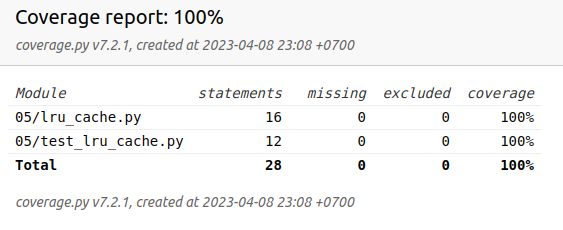
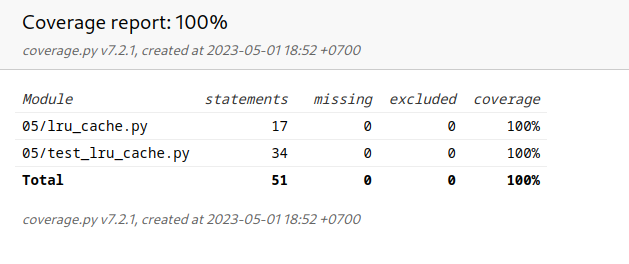
Change set method for cache and add tests

diff --git a/05/test_lru_cache.py b/05/test_lru_cache.py
@@ -16,3 +16,37 @@ def test_lru_cache():
     assert cache.get("k3") == "val3"
     assert cache.get("k2") is None
     assert cache.get("k1") == "val1"
+
+
+def test_lru_cache_limit_1():
+    cache = LRUCache(1)
+
+    cache.set(1, "val1")
+    cache.set(2, "val2")
+
+    assert cache.get(3) is None
+    assert cache.get(2) == "val2"
+    assert cache.get(1) is None
+
+    cache.set(3, "val3")
+
+    assert cache.get(3) == "val3"
+    assert cache.get(2) is None
+    assert cache.get(1) is None
+
+
+def test_lru_cache_change_exists_key():
+    cache = LRUCache(3)
+
+    cache.set("k1", "val1")
+    cache.set("k2", "val2")
+    cache.set("k3", "val3")
+
+    cache.set("k2", "val2_new")
+
+    cache.set(4, "new")
+
+    assert cache.get("k1") is None
+    assert cache.get("k2") == "val2_new"
+    assert cache.get("k3") == "val3"
+    assert cache.get(4) == "new"

diff --git a/05/lru_cache.py b/05/lru_cache.py
@@ -12,8 +12,10 @@ class LRUCache:
         return value
 
     def set(self, key, value):
-        item = self.elements.pop(key, None)
-        if item is None and len(self.elements) == self.limit:
-            for_delete = next(iter(self.elements))
-            self.elements.pop(for_delete)
+        if key in self.elements:
+            self.elements.pop(key, None)
+        else:
+            if len(self.elements) == self.limit:
+                for_delete = next(iter(self.elements))
+                self.elements.pop(for_delete)
         self.elements[key] = value
